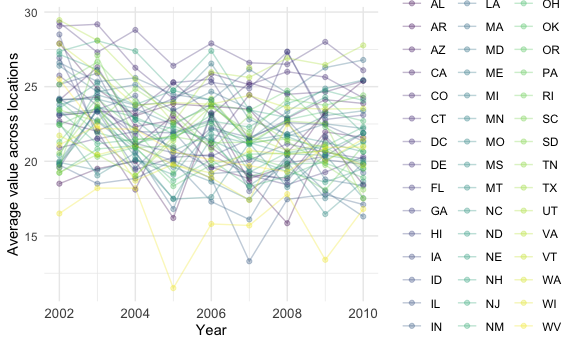
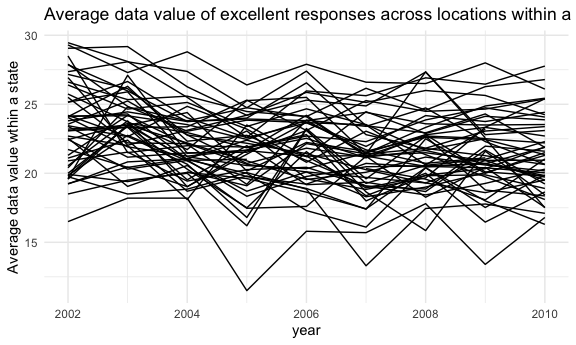
modify the spaghetti plot

diff --git a/p8105_hw3_yq2321.md b/p8105_hw3_yq2321.md
@@ -266,14 +266,11 @@ state.
 
 ``` r
 excellent_dataset %>%
-  ggplot(aes(x = year, y = mean_data_value, color = state)) +
-  geom_point(alpha = .3) +
-  geom_line(alpha = .3, aes(group = state)) +
-  labs(x = "Year", y = "Average value across locations") + 
-  theme(axis.text.x = element_text(size = 10), legend.position = "right")
+  ggplot(aes(x = year, y = mean_data_value)) +
+  geom_line(aes(group = state)) + 
+  labs(title = "Average data value of excellent responses across locations within a state",
+       y = "Average data value wthin a state")
 ```
-
-    ## Warning: Removed 4 rows containing missing values (geom_point).
 
     ## Warning: Removed 3 row(s) containing missing values (geom_path).
 
